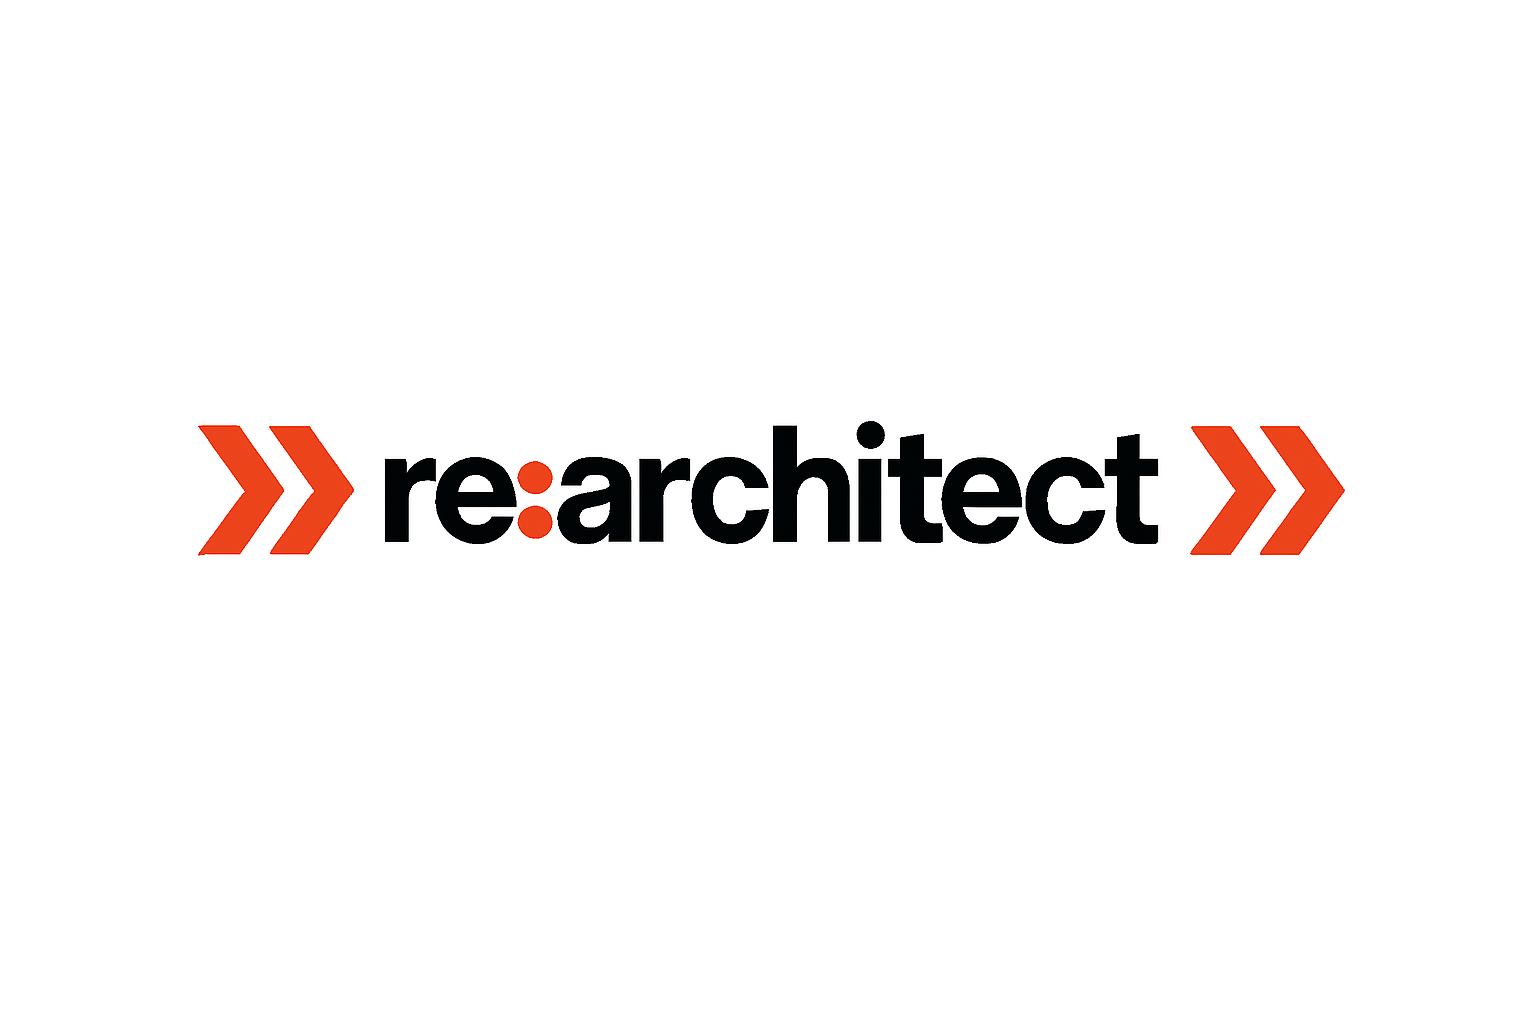
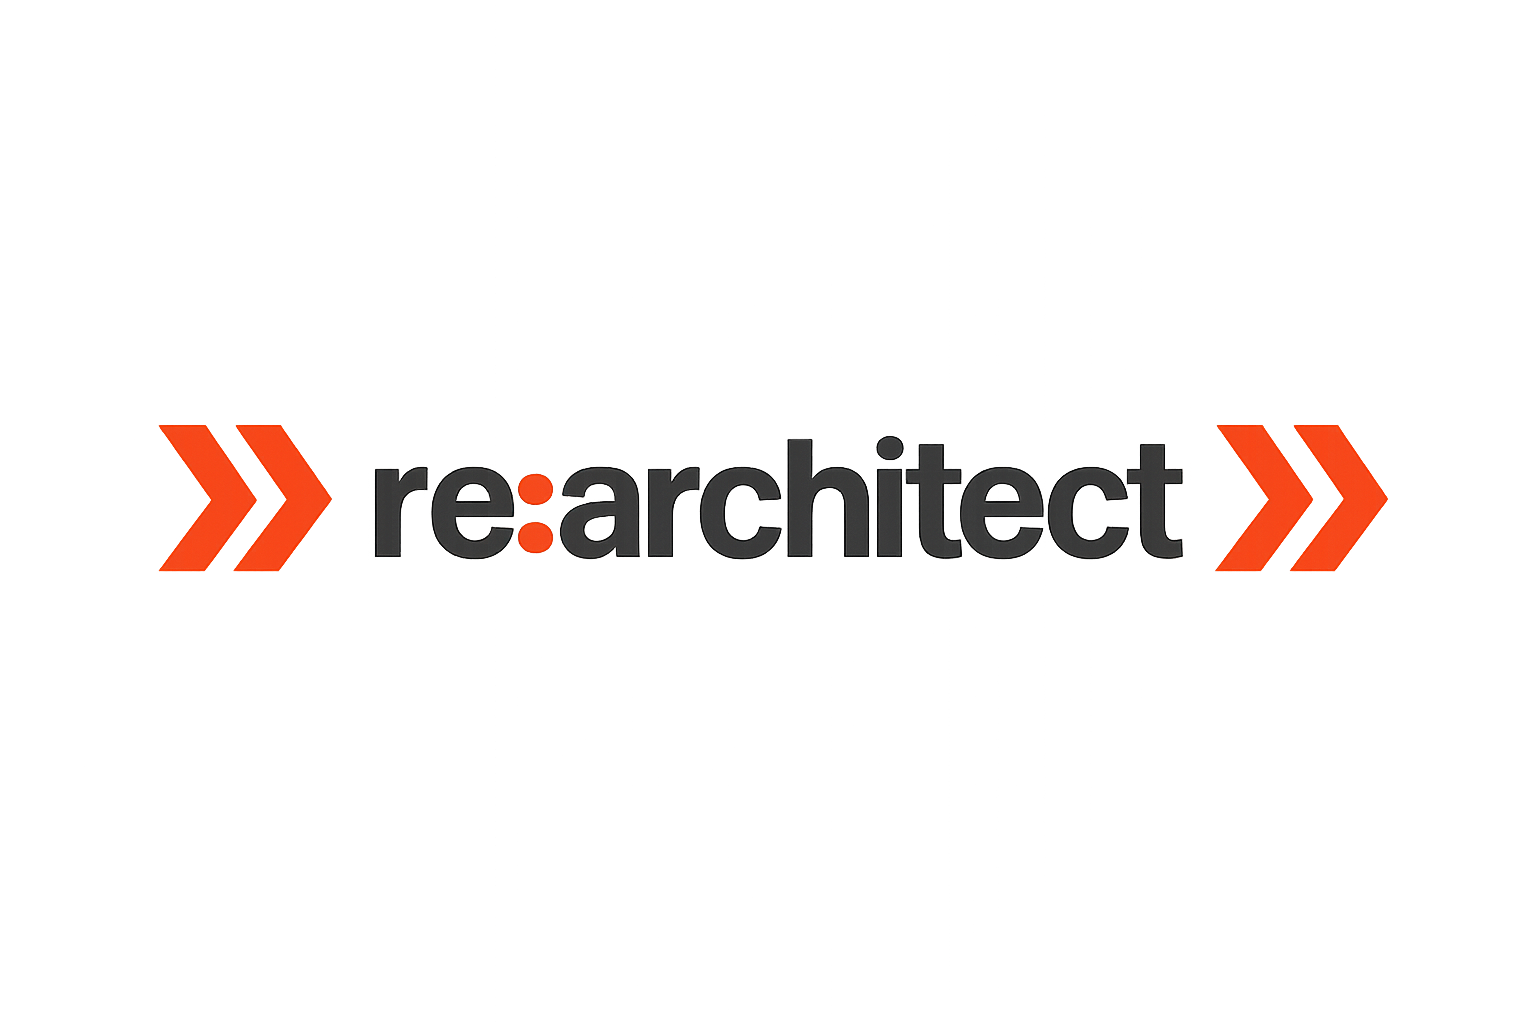
updated theme

Changed region(s): [[0.0938, 0.4062, 0.9062, 0.5625]]

diff --git a/index.html b/index.html
@@ -24,7 +24,7 @@
     </style>
 </head>
 <body>
-<img src="re_arch_bw.png" alt="Rearchitect Logo">
+<img src="re_architect.png" alt="Rearchitect Logo">
 <br>
 <br>
 </body>
